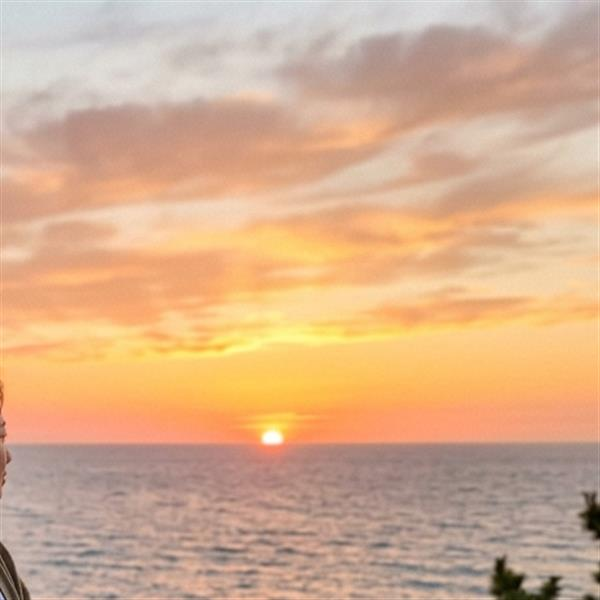
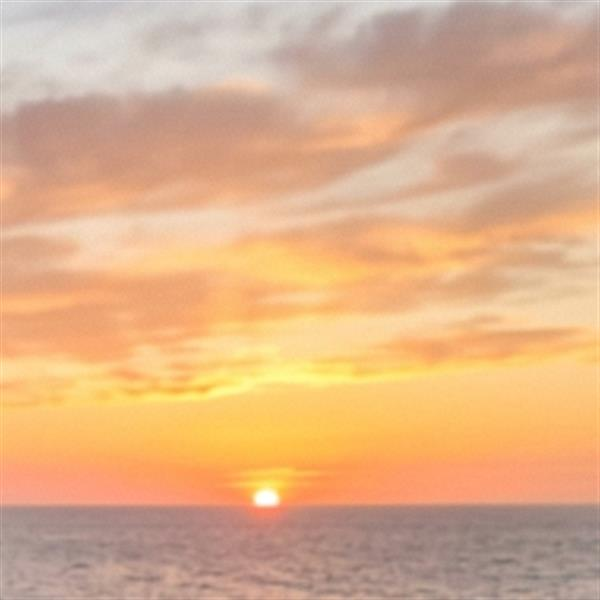
fix: enforce single-person identity across profile and album photos (no different faces in album)

diff --git a/index.html b/index.html
@@ -1277,29 +1277,100 @@
       }
     };
 
-    // 캐릭터별 3장 일상·셀카 사진첩 생성 (1번: 무료 일상/작업실 사진, 2번: 나들이 스냅(시크릿), 3번: 개인 셀카(시크릿))
+    // 얼굴이 나오지 않는 1인칭 일상/소품 사진 (어떤 캐릭터가 보내도 타인 얼굴과 절대 섞이지 않음)
+    const NON_FACE_DAILY_PHOTOS = [
+      { url: 'avatars/kr_hand_coffee_01.jpg', desc: '오후에 카페에서 직접 찍은 따뜻한 라떼 한 잔 사진' },
+      { url: 'avatars/kr_job_bakery_03.jpg', desc: '티타임에 먹으려고 준비한 크루아상과 딸기 케이크 간식 사진' },
+      { url: 'avatars/kr_hand_bouquet_04.jpg', desc: '예쁘게 포장하면서 직접 찍어둔 파스텔톤 꽃다발 사진' },
+      { url: 'avatars/kr_hand_dog_03.jpg', desc: '집 거실에서 귀엽게 앉아 있는 강아지를 쓰다듬으며 찍은 사진' },
+      { url: 'avatars/kr_scene_iced_coffee.jpg', desc: '햇살 좋은 카페 창가 자리에서 마신 아이스 아메리카노 사진' },
+      { url: 'avatars/kr_job_barista_02.jpg', desc: '고소한 원두 향 가득한 카페에서 정성껏 내린 라떼아트 사진' }
+    ];
+
+    // 얼굴이 나오지 않는 1인칭 주말 나들이·풍경 사진 (타인 얼굴과 절대 섞이지 않음)
+    const NON_FACE_OUTING_PHOTOS = [
+      { url: 'avatars/kr_nature_mountain_ridge.jpg', desc: '주말 등산 올라가서 직접 찍은 맑은 하늘과 산정상 바위 능선 사진' },
+      { url: 'avatars/kr_nature_eastsea_sunset.jpg', desc: '동해 바닷가 나들이 가서 직접 찍은 수평선 노을 풍경 사진' },
+      { url: 'avatars/kr_nature_autumn_foliage.jpg', desc: '산책길에 노랗고 붉게 물든 은행나무와 단풍을 직접 찍은 사진' },
+      { url: 'avatars/kr_scene_hanok_alley.jpg', desc: '주말에 조용히 걸었던 한옥마을 골목길 처마 풍경 사진' },
+      { url: 'avatars/kr_hand_wine_02.jpg', desc: '저녁에 분위기 좋은 곳에서 가볍게 마신 레드와인 한 잔 사진' }
+    ];
+
+    // 동일 인물 원본 ↔ 클로즈업 1:1 매칭 맵 (절대 다른 사람 얼굴이 섞이지 않도록 보장)
+    const SAME_PERSON_PAIR_MAP = {
+      'avatars/avatar_01_park_hayoung.jpg': { url: 'avatars/same_01_park_hayoung.jpg', desc: '카페 창가에서 밝게 미소 지으며 찍은 본인 클로즈업 사진' },
+      'avatars/avatar_02_kim_subin.jpg': { url: 'avatars/same_02_kim_subin.jpg', desc: '꽃 작업실에서 다정하게 웃으며 찍은 본인 클로즈업 셀카' },
+      'avatars/avatar_03_kang_daeun.jpg': { url: 'avatars/same_03_kang_daeun.jpg', desc: '산책길에 기분 좋게 미소 지은 본인 클로즈업 사진' },
+      'avatars/avatar_04_cho_yerin.jpg': { url: 'avatars/same_04_cho_yerin.jpg', desc: '따뜻한 조명 아래에서 찍은 본인 클로즈업 사진' },
+      'avatars/avatar_05_yoon_jieun.jpg': { url: 'avatars/same_05_yoon_jieun.jpg', desc: '운동 끝나고 활짝 웃으며 찍은 본인 클로즈업 사진' },
+      'avatars/avatar_06_jung_yujin.jpg': { url: 'avatars/same_06_jung_yujin.jpg', desc: '휴무일에 집에서 편하게 찍은 본인 클로즈업 셀카' },
+      'avatars/avatar_07_lee_seoyeon.jpg': { url: 'avatars/same_07_lee_seoyeon.jpg', desc: '전시회 나들이 가서 찍은 본인 클로즈업 사진' },
+      'avatars/avatar_08_oh_chaewon.jpg': { url: 'avatars/same_08_oh_chaewon.jpg', desc: '베이커리에서 환하게 웃으며 찍은 본인 클로즈업 셀카' },
+      'avatars/avatar_09_shin_sohee.jpg': { url: 'avatars/same_09_shin_sohee.jpg', desc: '저녁 한강 산책 중 찍은 본인 클로즈업 사진' },
+      'avatars/avatar_10_han_minseo.jpg': { url: 'avatars/same_10_han_minseo.jpg', desc: '조용한 북카페에서 찍은 본인 클로즈업 사진' },
+      'avatars/kr_selfie_mirror_01.jpg': { url: 'avatars/same_selfie_mirror_01.jpg', desc: '외출 전 거울 앞에서 찍은 본인 클로즈업 셀카' },
+      'avatars/kr_selfie_cafe_03.jpg': { url: 'avatars/kr_selfie_closeup_04.jpg', desc: '카페 창가에서 가까이 찍은 본인 클로즈업 셀카' },
+      'avatars/kr_selfie_closeup_04.jpg': { url: 'avatars/kr_selfie_cafe_03.jpg', desc: '카페 창가에서 커피와 함께 찍은 본인 셀카 원본' },
+      'avatars/kr_candid_cafe_01.jpg': { url: 'avatars/kr_profile_cafe_closeup.jpg', desc: '카페에서 턱을 괴고 미소 짓는 본인 클로즈업 사진' },
+      'avatars/kr_profile_cafe_closeup.jpg': { url: 'avatars/kr_candid_cafe_01.jpg', desc: '카페 테이블에 앉아 커피 마시며 찍은 본인 일상 사진' },
+      'avatars/kr_candid_hanok_04.jpg': { url: 'avatars/kr_candid_hanok_closeup.jpg', desc: '한옥마을 산책 중 뒤돌아보며 웃는 본인 클로즈업 사진' },
+      'avatars/kr_candid_hanok_closeup.jpg': { url: 'avatars/kr_candid_hanok_04.jpg', desc: '한옥마을 골목길 나들이 중 찍은 본인 전신 스냅 사진' },
+      'avatars/kr_candid_park_02.jpg': { url: 'avatars/same_candid_park_02.jpg', desc: '단풍 든 산책로에서 활짝 웃는 본인 클로즈업 사진' },
+      'avatars/kr_candid_sea_03.jpg': { url: 'avatars/same_candid_sea_03.jpg', desc: '동해 바닷가 전망대에서 찍은 본인 클로즈업 스냅' },
+      'avatars/kr_hiking_peak_01.jpg': { url: 'avatars/same_hiking_peak_01.jpg', desc: '산정상에서 환하게 웃으며 찍은 본인 등산 클로즈업 사진' },
+      'avatars/kr_job_florist_01.jpg': { url: 'avatars/same_job_florist_01.jpg', desc: '꽃 작업실에서 미소 지으며 찍은 본인 클로즈업 사진' },
+      'avatars/kr_profile_senior_02.jpg': { url: 'avatars/kr_profile_senior_closeup.jpg', desc: '온화하고 품위 있는 미소의 본인 클로즈업 사진' },
+      'avatars/kr_profile_senior_closeup.jpg': { url: 'avatars/kr_profile_senior_02.jpg', desc: '식물원 카페에서 차 한잔하며 찍은 본인 사진 원본' }
+    };
+
+    // 캐릭터별 3장 일상·셀카 사진첩 생성 (타인의 얼굴이 절대 섞이지 않도록 1인칭 일상/풍경 + 본인 단일 얼굴만 구성)
     function getCharacterAlbum(char) {
       if (!char) return [];
       const hash = char.id.split('').reduce((acc, ch) => acc + ch.charCodeAt(0), 0);
-      const jobPool = getJobAvatarPool(char.job);
-      const dailyItem = jobPool[hash % jobPool.length];
-      const candidItem = REAL_AVATAR_GALLERY.candid[(hash * 3 + 1) % REAL_AVATAR_GALLERY.candid.length];
-      const selfieItem = REAL_AVATAR_GALLERY.selfie[(hash * 5 + 2) % REAL_AVATAR_GALLERY.selfie.length];
+
+      // 1번 사진 (무료): 얼굴이 나오지 않는 1인칭 일상/티타임/반려견 사진 (프사와 겹치지 않게 선택)
+      const dailyFiltered = NON_FACE_DAILY_PHOTOS.filter(p => p.url !== char.avatar);
+      const dailyItem = dailyFiltered[hash % dailyFiltered.length] || NON_FACE_DAILY_PHOTOS[0];
+
+      // 2번 사진 (시크릿): 얼굴이 나오지 않는 1인칭 주말 산행/바다 노을/단풍/와인 사진
+      const outingFiltered = NON_FACE_OUTING_PHOTOS.filter(p => p.url !== char.avatar && p.url !== dailyItem.url);
+      const outingItem = outingFiltered[(hash * 3 + 1) % outingFiltered.length] || NON_FACE_OUTING_PHOTOS[0];
+
+      // 3번 사진 (시크릿 셀카):
+      // - 프사가 인물 사진이면 반드시 '동일 인물'의 클로즈업/원본 페어 사진 사용
+      // - 프사가 풍경/손 사진(인물 없음)이면 해당 캐릭터의 연령대에 맞는 단 1명의 본인 셀카 배정
+      let selfieItem = SAME_PERSON_PAIR_MAP[char.avatar];
+      if (!selfieItem) {
+        const isSenior = Number(char.ageDecade) >= 50;
+        const singlePersonFallbackPool = isSenior
+          ? [
+              { url: 'avatars/kr_profile_senior_02.jpg', desc: '차 한잔 마시며 찍어둔 개인 소장 본인 사진' },
+              { url: 'avatars/avatar_10_han_minseo.jpg', desc: '조용한 카페에서 찍어둔 개인 소장 본인 사진' },
+              { url: 'avatars/avatar_07_lee_seoyeon.jpg', desc: '주말 외출 중 찍어둔 개인 소장 본인 사진' }
+            ]
+          : [
+              { url: 'avatars/kr_selfie_cafe_03.jpg', desc: '카페 창가에서 직접 찍은 개인 소장 셀카' },
+              { url: 'avatars/kr_selfie_mirror_01.jpg', desc: '외출 전 거울 앞에서 직접 찍은 개인 소장 셀카' },
+              { url: 'avatars/kr_candid_cafe_01.jpg', desc: '주말 카페에서 찍어둔 개인 소장 본인 사진' },
+              { url: 'avatars/kr_candid_hanok_04.jpg', desc: '나들이 가서 찍어둔 개인 소장 본인 사진' }
+            ];
+        selfieItem = singlePersonFallbackPool[hash % singlePersonFallbackPool.length];
+      }
 
       return [
         {
           id: `alb_${char.id}_0`,
           url: dailyItem.url,
-          title: '일상 · 일터 스냅',
+          title: '일상 · 티타임 스냅',
           desc: dailyItem.desc,
           isSecret: false,
           cost: 0
         },
         {
           id: `alb_${char.id}_1`,
-          url: candidItem.url,
-          title: '나들이 스냅 사진',
-          desc: candidItem.desc,
+          url: outingItem.url,
+          title: '주말 나들이 풍경',
+          desc: outingItem.desc,
           isSecret: true,
           cost: 3
         },

diff --git a/seollem_chat_standalone.html b/seollem_chat_standalone.html
@@ -1277,29 +1277,100 @@
       }
     };
 
-    // 캐릭터별 3장 일상·셀카 사진첩 생성 (1번: 무료 일상/작업실 사진, 2번: 나들이 스냅(시크릿), 3번: 개인 셀카(시크릿))
+    // 얼굴이 나오지 않는 1인칭 일상/소품 사진 (어떤 캐릭터가 보내도 타인 얼굴과 절대 섞이지 않음)
+    const NON_FACE_DAILY_PHOTOS = [
+      { url: 'avatars/kr_hand_coffee_01.jpg', desc: '오후에 카페에서 직접 찍은 따뜻한 라떼 한 잔 사진' },
+      { url: 'avatars/kr_job_bakery_03.jpg', desc: '티타임에 먹으려고 준비한 크루아상과 딸기 케이크 간식 사진' },
+      { url: 'avatars/kr_hand_bouquet_04.jpg', desc: '예쁘게 포장하면서 직접 찍어둔 파스텔톤 꽃다발 사진' },
+      { url: 'avatars/kr_hand_dog_03.jpg', desc: '집 거실에서 귀엽게 앉아 있는 강아지를 쓰다듬으며 찍은 사진' },
+      { url: 'avatars/kr_scene_iced_coffee.jpg', desc: '햇살 좋은 카페 창가 자리에서 마신 아이스 아메리카노 사진' },
+      { url: 'avatars/kr_job_barista_02.jpg', desc: '고소한 원두 향 가득한 카페에서 정성껏 내린 라떼아트 사진' }
+    ];
+
+    // 얼굴이 나오지 않는 1인칭 주말 나들이·풍경 사진 (타인 얼굴과 절대 섞이지 않음)
+    const NON_FACE_OUTING_PHOTOS = [
+      { url: 'avatars/kr_nature_mountain_ridge.jpg', desc: '주말 등산 올라가서 직접 찍은 맑은 하늘과 산정상 바위 능선 사진' },
+      { url: 'avatars/kr_nature_eastsea_sunset.jpg', desc: '동해 바닷가 나들이 가서 직접 찍은 수평선 노을 풍경 사진' },
+      { url: 'avatars/kr_nature_autumn_foliage.jpg', desc: '산책길에 노랗고 붉게 물든 은행나무와 단풍을 직접 찍은 사진' },
+      { url: 'avatars/kr_scene_hanok_alley.jpg', desc: '주말에 조용히 걸었던 한옥마을 골목길 처마 풍경 사진' },
+      { url: 'avatars/kr_hand_wine_02.jpg', desc: '저녁에 분위기 좋은 곳에서 가볍게 마신 레드와인 한 잔 사진' }
+    ];
+
+    // 동일 인물 원본 ↔ 클로즈업 1:1 매칭 맵 (절대 다른 사람 얼굴이 섞이지 않도록 보장)
+    const SAME_PERSON_PAIR_MAP = {
+      'avatars/avatar_01_park_hayoung.jpg': { url: 'avatars/same_01_park_hayoung.jpg', desc: '카페 창가에서 밝게 미소 지으며 찍은 본인 클로즈업 사진' },
+      'avatars/avatar_02_kim_subin.jpg': { url: 'avatars/same_02_kim_subin.jpg', desc: '꽃 작업실에서 다정하게 웃으며 찍은 본인 클로즈업 셀카' },
+      'avatars/avatar_03_kang_daeun.jpg': { url: 'avatars/same_03_kang_daeun.jpg', desc: '산책길에 기분 좋게 미소 지은 본인 클로즈업 사진' },
+      'avatars/avatar_04_cho_yerin.jpg': { url: 'avatars/same_04_cho_yerin.jpg', desc: '따뜻한 조명 아래에서 찍은 본인 클로즈업 사진' },
+      'avatars/avatar_05_yoon_jieun.jpg': { url: 'avatars/same_05_yoon_jieun.jpg', desc: '운동 끝나고 활짝 웃으며 찍은 본인 클로즈업 사진' },
+      'avatars/avatar_06_jung_yujin.jpg': { url: 'avatars/same_06_jung_yujin.jpg', desc: '휴무일에 집에서 편하게 찍은 본인 클로즈업 셀카' },
+      'avatars/avatar_07_lee_seoyeon.jpg': { url: 'avatars/same_07_lee_seoyeon.jpg', desc: '전시회 나들이 가서 찍은 본인 클로즈업 사진' },
+      'avatars/avatar_08_oh_chaewon.jpg': { url: 'avatars/same_08_oh_chaewon.jpg', desc: '베이커리에서 환하게 웃으며 찍은 본인 클로즈업 셀카' },
+      'avatars/avatar_09_shin_sohee.jpg': { url: 'avatars/same_09_shin_sohee.jpg', desc: '저녁 한강 산책 중 찍은 본인 클로즈업 사진' },
+      'avatars/avatar_10_han_minseo.jpg': { url: 'avatars/same_10_han_minseo.jpg', desc: '조용한 북카페에서 찍은 본인 클로즈업 사진' },
+      'avatars/kr_selfie_mirror_01.jpg': { url: 'avatars/same_selfie_mirror_01.jpg', desc: '외출 전 거울 앞에서 찍은 본인 클로즈업 셀카' },
+      'avatars/kr_selfie_cafe_03.jpg': { url: 'avatars/kr_selfie_closeup_04.jpg', desc: '카페 창가에서 가까이 찍은 본인 클로즈업 셀카' },
+      'avatars/kr_selfie_closeup_04.jpg': { url: 'avatars/kr_selfie_cafe_03.jpg', desc: '카페 창가에서 커피와 함께 찍은 본인 셀카 원본' },
+      'avatars/kr_candid_cafe_01.jpg': { url: 'avatars/kr_profile_cafe_closeup.jpg', desc: '카페에서 턱을 괴고 미소 짓는 본인 클로즈업 사진' },
+      'avatars/kr_profile_cafe_closeup.jpg': { url: 'avatars/kr_candid_cafe_01.jpg', desc: '카페 테이블에 앉아 커피 마시며 찍은 본인 일상 사진' },
+      'avatars/kr_candid_hanok_04.jpg': { url: 'avatars/kr_candid_hanok_closeup.jpg', desc: '한옥마을 산책 중 뒤돌아보며 웃는 본인 클로즈업 사진' },
+      'avatars/kr_candid_hanok_closeup.jpg': { url: 'avatars/kr_candid_hanok_04.jpg', desc: '한옥마을 골목길 나들이 중 찍은 본인 전신 스냅 사진' },
+      'avatars/kr_candid_park_02.jpg': { url: 'avatars/same_candid_park_02.jpg', desc: '단풍 든 산책로에서 활짝 웃는 본인 클로즈업 사진' },
+      'avatars/kr_candid_sea_03.jpg': { url: 'avatars/same_candid_sea_03.jpg', desc: '동해 바닷가 전망대에서 찍은 본인 클로즈업 스냅' },
+      'avatars/kr_hiking_peak_01.jpg': { url: 'avatars/same_hiking_peak_01.jpg', desc: '산정상에서 환하게 웃으며 찍은 본인 등산 클로즈업 사진' },
+      'avatars/kr_job_florist_01.jpg': { url: 'avatars/same_job_florist_01.jpg', desc: '꽃 작업실에서 미소 지으며 찍은 본인 클로즈업 사진' },
+      'avatars/kr_profile_senior_02.jpg': { url: 'avatars/kr_profile_senior_closeup.jpg', desc: '온화하고 품위 있는 미소의 본인 클로즈업 사진' },
+      'avatars/kr_profile_senior_closeup.jpg': { url: 'avatars/kr_profile_senior_02.jpg', desc: '식물원 카페에서 차 한잔하며 찍은 본인 사진 원본' }
+    };
+
+    // 캐릭터별 3장 일상·셀카 사진첩 생성 (타인의 얼굴이 절대 섞이지 않도록 1인칭 일상/풍경 + 본인 단일 얼굴만 구성)
     function getCharacterAlbum(char) {
       if (!char) return [];
       const hash = char.id.split('').reduce((acc, ch) => acc + ch.charCodeAt(0), 0);
-      const jobPool = getJobAvatarPool(char.job);
-      const dailyItem = jobPool[hash % jobPool.length];
-      const candidItem = REAL_AVATAR_GALLERY.candid[(hash * 3 + 1) % REAL_AVATAR_GALLERY.candid.length];
-      const selfieItem = REAL_AVATAR_GALLERY.selfie[(hash * 5 + 2) % REAL_AVATAR_GALLERY.selfie.length];
+
+      // 1번 사진 (무료): 얼굴이 나오지 않는 1인칭 일상/티타임/반려견 사진 (프사와 겹치지 않게 선택)
+      const dailyFiltered = NON_FACE_DAILY_PHOTOS.filter(p => p.url !== char.avatar);
+      const dailyItem = dailyFiltered[hash % dailyFiltered.length] || NON_FACE_DAILY_PHOTOS[0];
+
+      // 2번 사진 (시크릿): 얼굴이 나오지 않는 1인칭 주말 산행/바다 노을/단풍/와인 사진
+      const outingFiltered = NON_FACE_OUTING_PHOTOS.filter(p => p.url !== char.avatar && p.url !== dailyItem.url);
+      const outingItem = outingFiltered[(hash * 3 + 1) % outingFiltered.length] || NON_FACE_OUTING_PHOTOS[0];
+
+      // 3번 사진 (시크릿 셀카):
+      // - 프사가 인물 사진이면 반드시 '동일 인물'의 클로즈업/원본 페어 사진 사용
+      // - 프사가 풍경/손 사진(인물 없음)이면 해당 캐릭터의 연령대에 맞는 단 1명의 본인 셀카 배정
+      let selfieItem = SAME_PERSON_PAIR_MAP[char.avatar];
+      if (!selfieItem) {
+        const isSenior = Number(char.ageDecade) >= 50;
+        const singlePersonFallbackPool = isSenior
+          ? [
+              { url: 'avatars/kr_profile_senior_02.jpg', desc: '차 한잔 마시며 찍어둔 개인 소장 본인 사진' },
+              { url: 'avatars/avatar_10_han_minseo.jpg', desc: '조용한 카페에서 찍어둔 개인 소장 본인 사진' },
+              { url: 'avatars/avatar_07_lee_seoyeon.jpg', desc: '주말 외출 중 찍어둔 개인 소장 본인 사진' }
+            ]
+          : [
+              { url: 'avatars/kr_selfie_cafe_03.jpg', desc: '카페 창가에서 직접 찍은 개인 소장 셀카' },
+              { url: 'avatars/kr_selfie_mirror_01.jpg', desc: '외출 전 거울 앞에서 직접 찍은 개인 소장 셀카' },
+              { url: 'avatars/kr_candid_cafe_01.jpg', desc: '주말 카페에서 찍어둔 개인 소장 본인 사진' },
+              { url: 'avatars/kr_candid_hanok_04.jpg', desc: '나들이 가서 찍어둔 개인 소장 본인 사진' }
+            ];
+        selfieItem = singlePersonFallbackPool[hash % singlePersonFallbackPool.length];
+      }
 
       return [
         {
           id: `alb_${char.id}_0`,
           url: dailyItem.url,
-          title: '일상 · 일터 스냅',
+          title: '일상 · 티타임 스냅',
           desc: dailyItem.desc,
           isSecret: false,
           cost: 0
         },
         {
           id: `alb_${char.id}_1`,
-          url: candidItem.url,
-          title: '나들이 스냅 사진',
-          desc: candidItem.desc,
+          url: outingItem.url,
+          title: '주말 나들이 풍경',
+          desc: outingItem.desc,
           isSecret: true,
           cost: 3
         },
